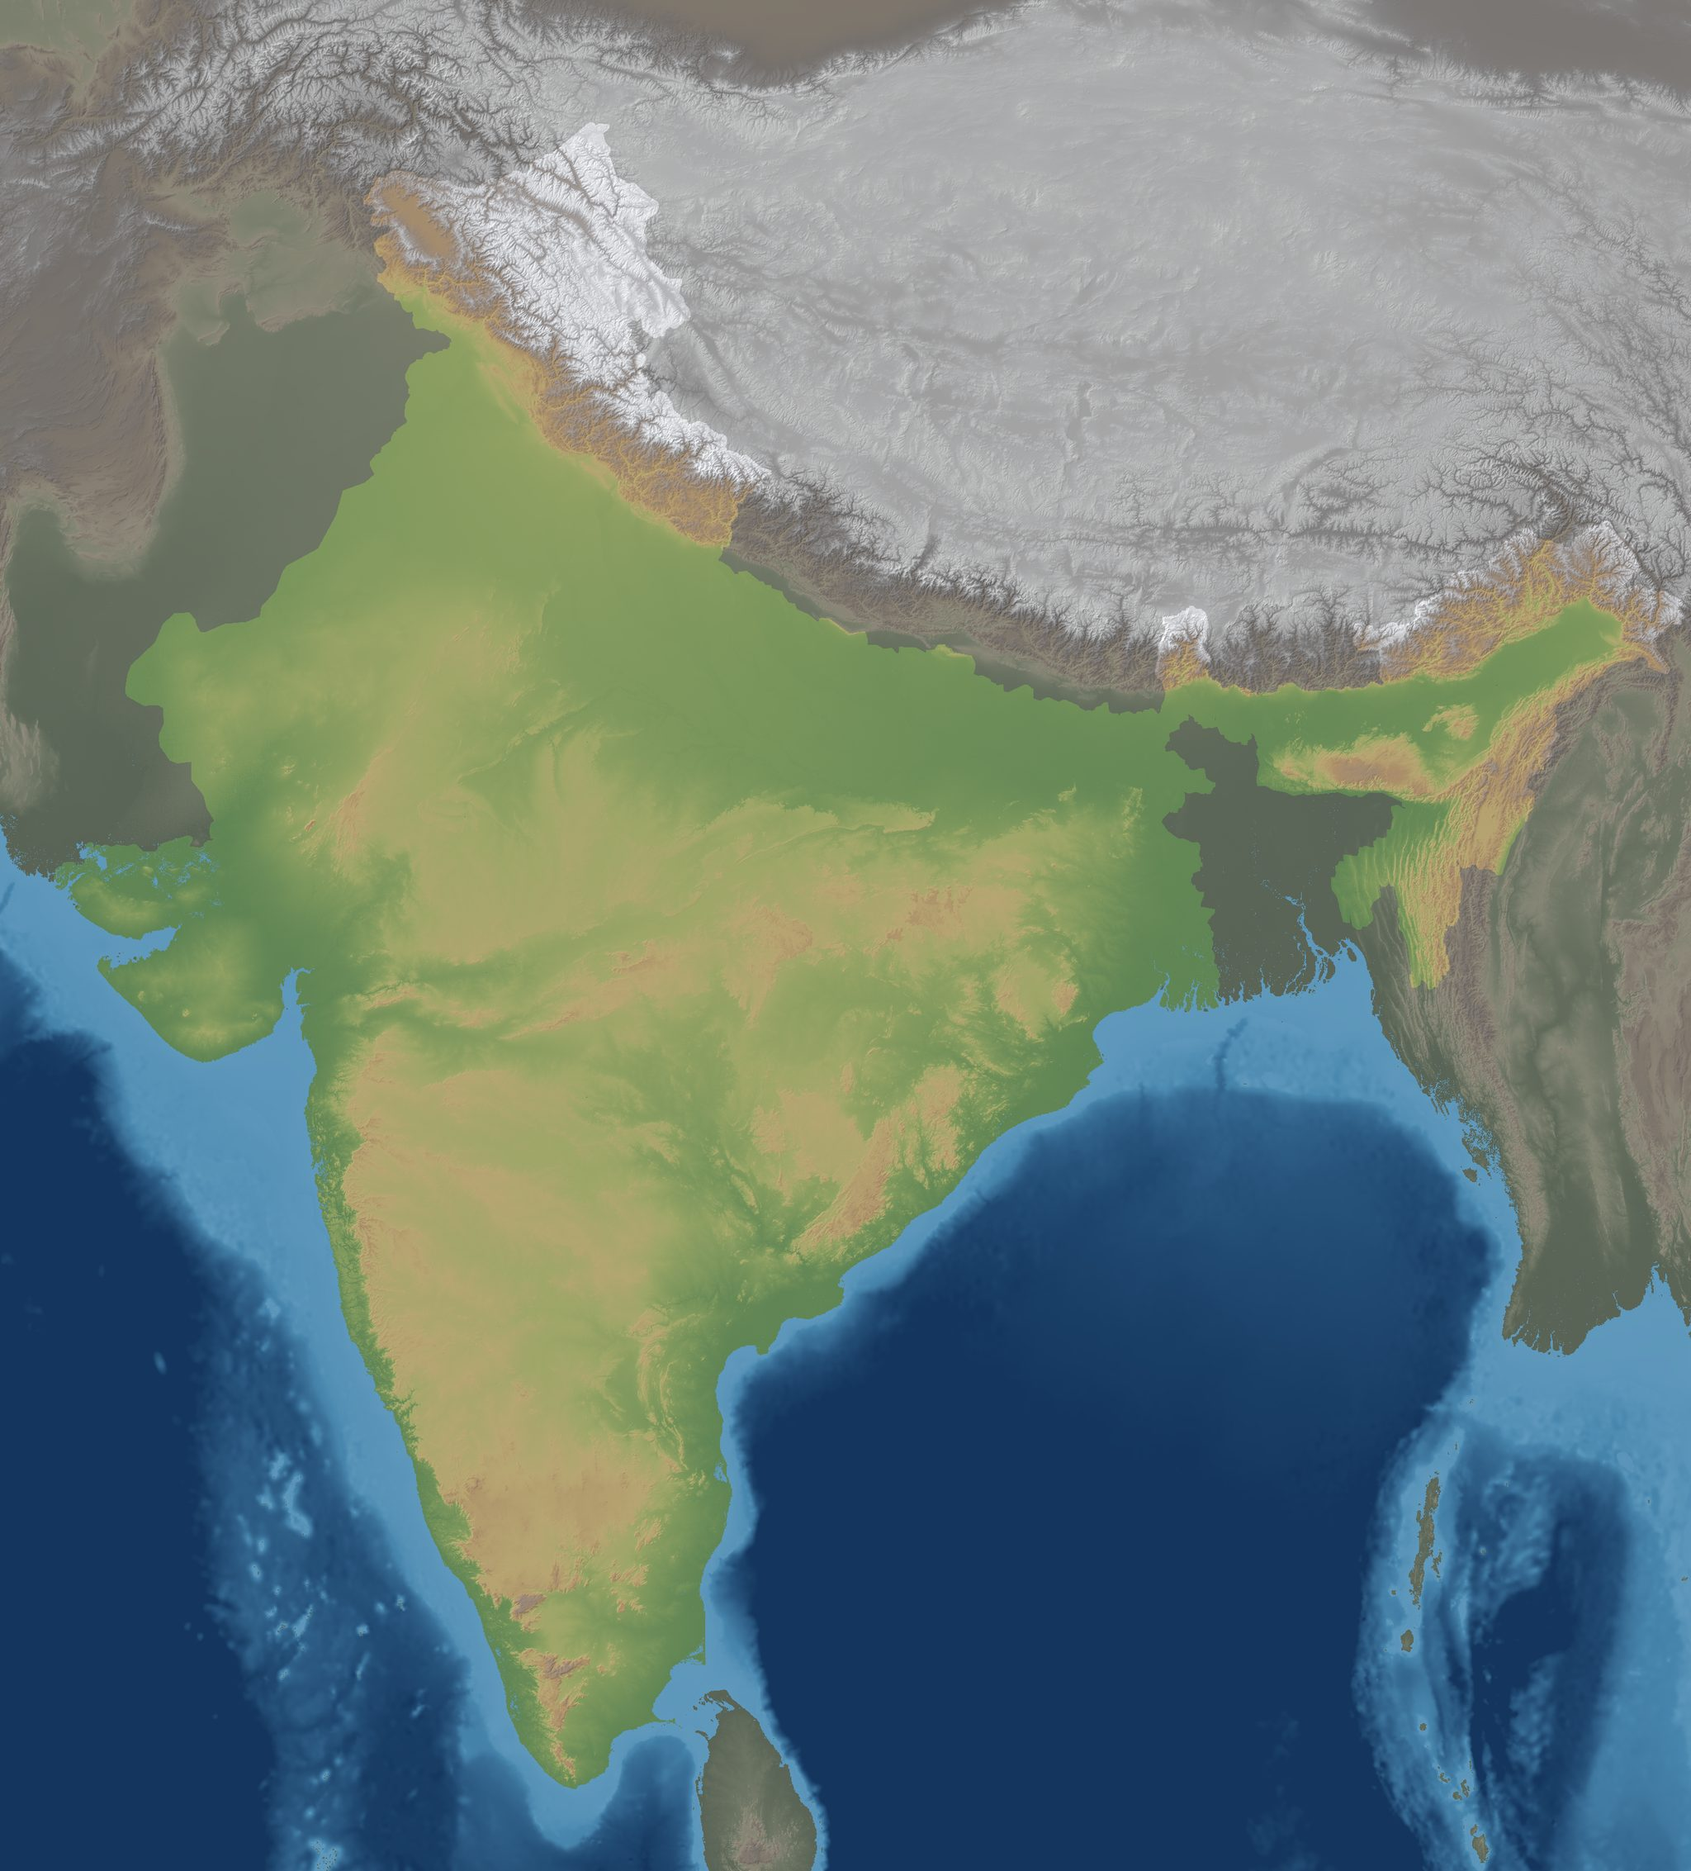
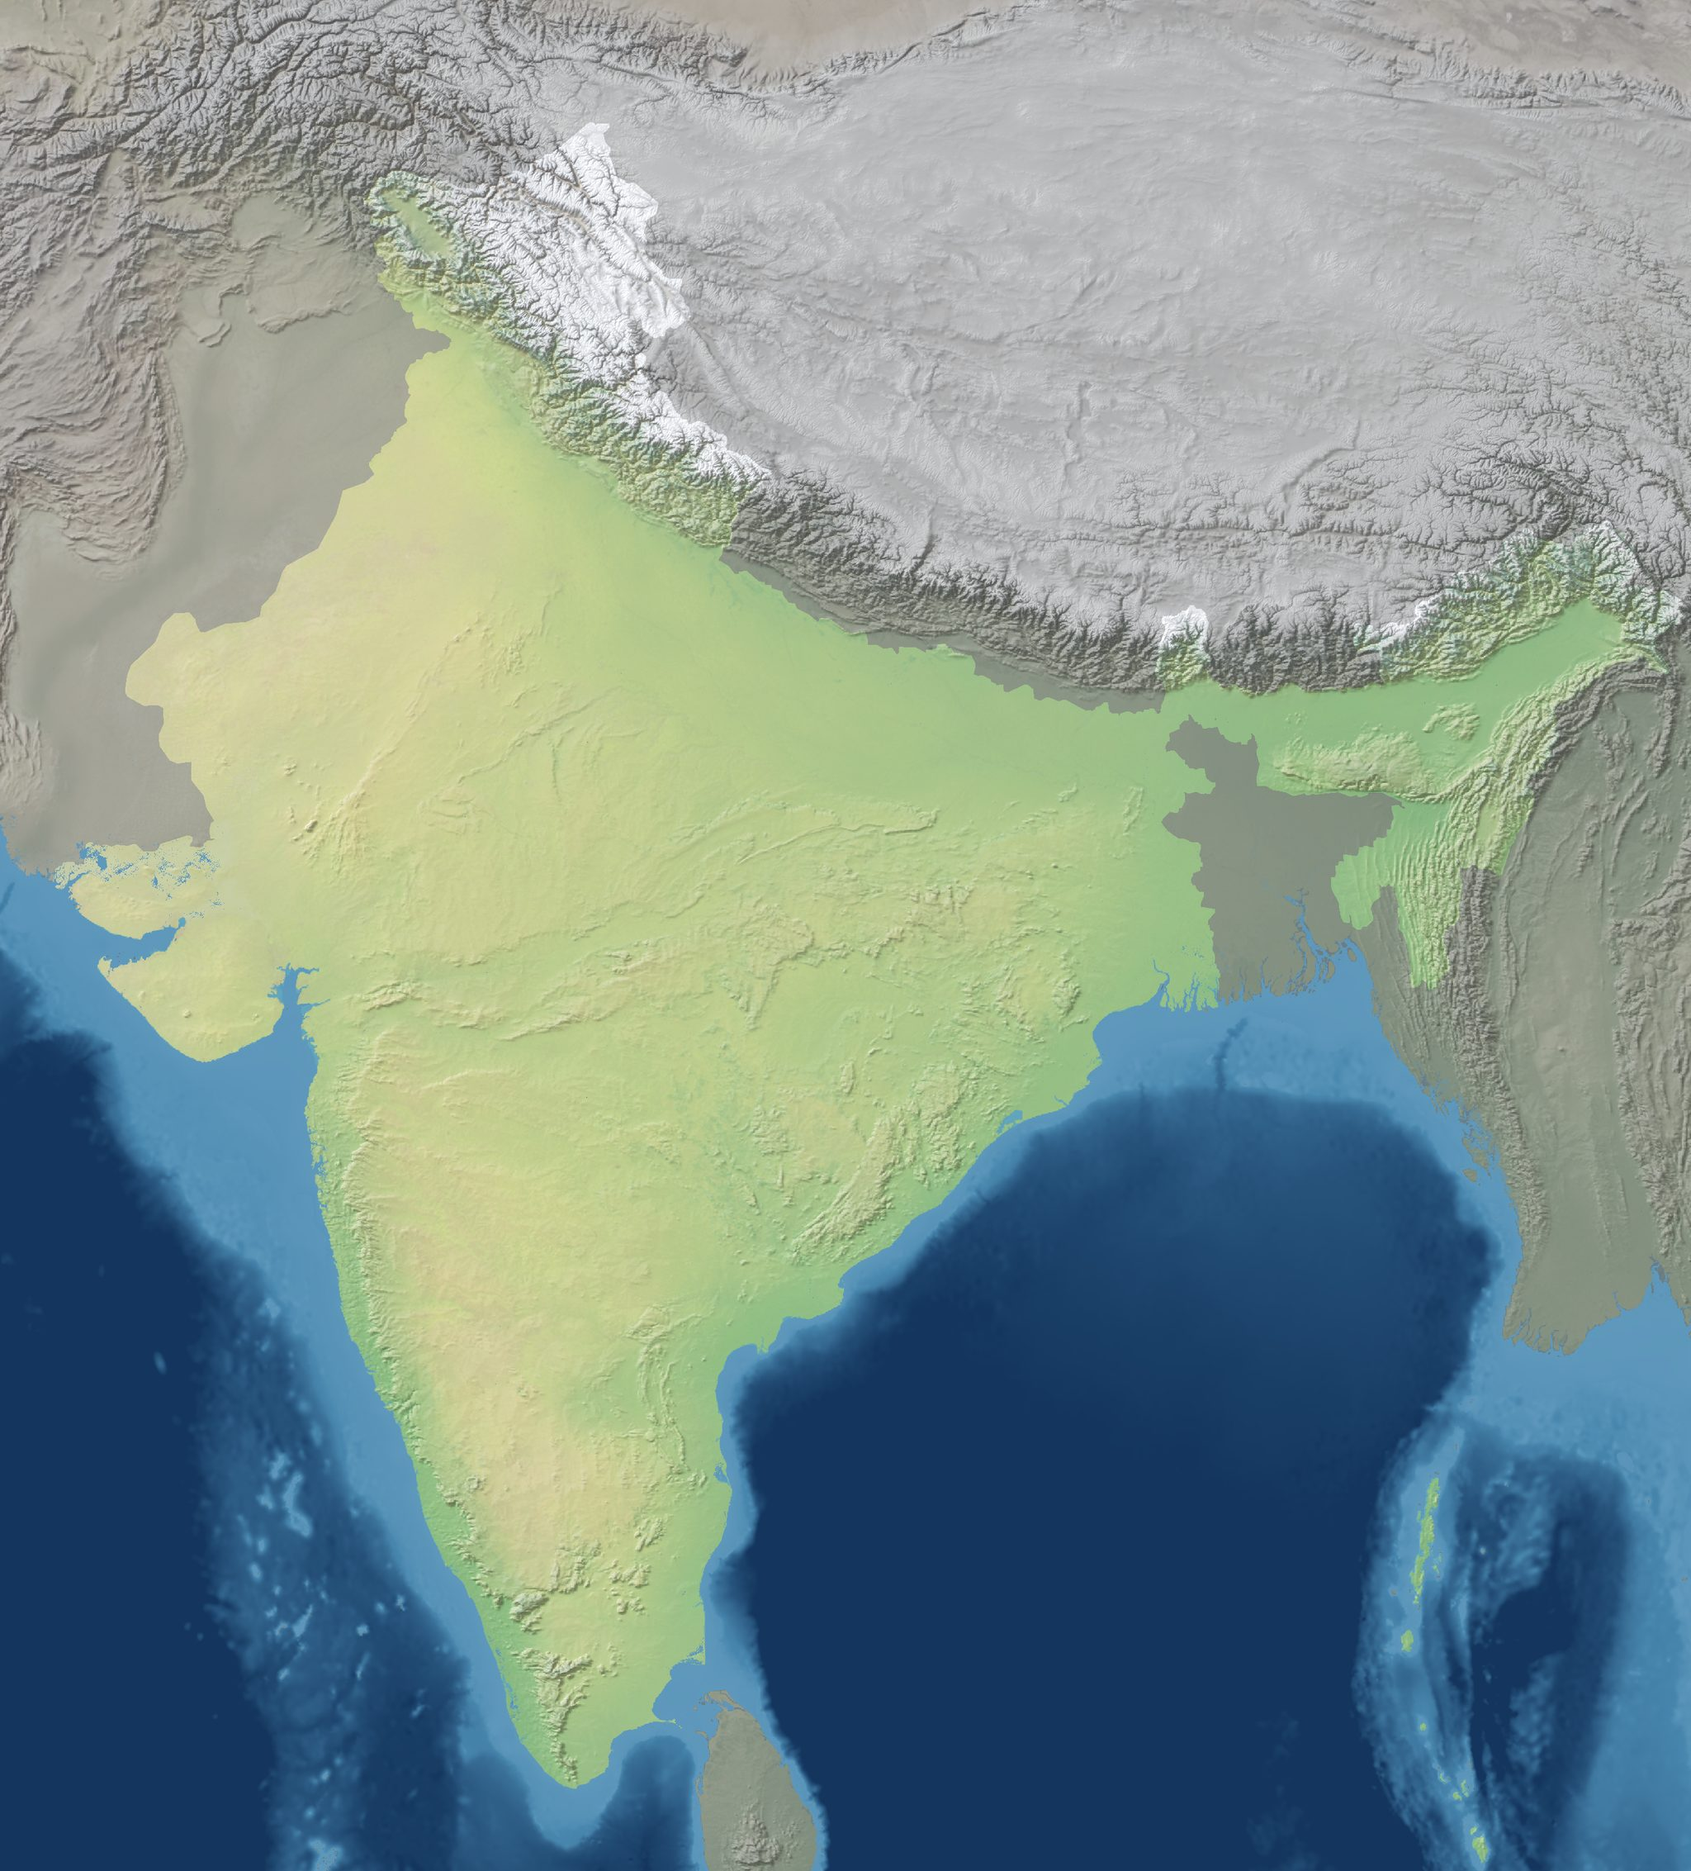
Real land cover on the map: the Thar stops looking like the Gangetic plain
An elevation ramp cannot tell a desert from a floodplain, because both sit at about
200 m and height is all it knows. That was logged as a known limitation, and it
matters more than a cosmetic one would: the course argues that where the rain falls
decides what grows, on a map that painted the Thar the same green as Bengal.

Colour now comes from Natural Earth II, a public-domain cross-blended raster that
already encodes land cover. Our own hillshade, bathymetry and figure/ground
treatment stay on top. Two adjustments earned their place: NE2 is itself a shaded
relief, so a second full-strength hillshade double-shaded it and washed the map out;
and it is drawn pale for print, so a quarter of the old elevation ramp is blended
back for depth, with the ramp keeping the snow line outright because NE2 renders the
Himalaya far too timidly.

The raster is 310 MB and git-ignored. tools/fetch_ne2.py downloads it, and the bake
falls back to the elevation ramp when it is absent, so a fresh clone still produces
a working map without the download.

Also corrected, from the Punjab writer: the sheet said the Golden Temple had been
"gilded since 1604". 1604 is the completion and the installation of the Adi Granth;
the gold is Ranjit Singh two centuries later, which the Punjab reading says, so the
page was contradicting itself.

Claude-Session: https://claude.ai/code/session_013dVEd8LmoEaQxboZmSpwcx

diff --git a/masala-dabba.html b/masala-dabba.html
@@ -516,8 +516,24 @@ const REGIONS = [{"name":"Kashmir & the Himalaya","code":"IN-HIM","c":[77.113,32
 <script src="content/punjab.no.js"></script>
 <script src="content/spice/punjab.js"></script>
 <script src="content/spice/punjab.no.js"></script>
+<script src="content/quiz/punjab.js"></script>
+<script src="content/quiz/punjab.no.js"></script>
+<script src="content/glossary/punjab.js"></script>
+<script src="content/glossary/punjab.no.js"></script>
+<script src="content/recipes/punjab.js"></script>
 <script src="content/rajasthan.js"></script>
+<script src="content/rajasthan.no.js"></script>
+<script src="content/spice/rajasthan.js"></script>
+<script src="content/spice/rajasthan.no.js"></script>
+<script src="content/quiz/rajasthan.js"></script>
+<script src="content/quiz/rajasthan.no.js"></script>
 <script src="content/bengal.js"></script>
+<script src="content/bengal.no.js"></script>
+<script src="content/spice/bengal.js"></script>
+<script src="content/spice/bengal.no.js"></script>
+<script src="content/quiz/bengal.js"></script>
+<script src="content/quiz/bengal.no.js"></script>
+<script src="content/recipes/bengal.js"></script>
 <script src="content/kerala.js"></script>
 <script src="content/kerala.no.js"></script>
 <script src="content/spice/kerala.js"></script>
@@ -586,7 +602,7 @@ const COURSE = {
    dishes:[['Rogan josh',0],['Yakhni',0],['Dum aloo',1],['Haak',1],['Modur pulav',1],['Tabak maaz',0],['Kahwa',1],['Nadru yakhni',1]],
    lessons:['Saffron, ver and the chilli that colours','Rice, the wazwan and the seventh course','Rogan josh, yakhni and the two valley kitchens','Mughals in the mountains: why the valley eats as it does']},
  'IN-PUN':{name:'Punjab & Delhi', capital:'Amritsar', area:'North', color:'#c9a94e', intro:"Five rivers, wheat instead of rice, and a clay oven that changed how the world thinks Indian food tastes. Delhi sits at the eastern end of the same plain and cooks what Partition brought it.",
-   landmark:{name:'The Golden Temple, Amritsar', desc:'Gilded and standing in its own tank since 1604. Its langar feeds about a hundred thousand people a day, free, in the largest continuously running kitchen on earth.',props:[['harmandir',31.62,74.88]]},
+   landmark:{name:'The Golden Temple, Amritsar', desc:'Standing in its own tank since 1604, and gold-plated under Ranjit Singh two centuries later. Its langar feeds about a hundred thousand people a day, free, in the largest continuously running kitchen on earth.',props:[['harmandir',31.62,74.88]]},
    spices:[['Garam masala','blend'],['Cumin (jeera)','whole'],['Coriander seed','whole'],['Ajwain','whole'],['Kasuri methi','fresh'],['Amchur','souring']],
    plate:'Sarson da saag with a makki roti, a lump of white butter melting into it, and a glass of salted lassi.',
    dishes:[['Sarson da saag',1],['Makki di roti',1],['Butter chicken',0],['Tandoori chicken',0],['Dal makhani',1],['Rajma-chawal',1],['Chole bhature',1],['Amritsari fish',0],['Lassi',1]],

diff --git a/content/course.no.js b/content/course.no.js
@@ -9,10 +9,10 @@ window.COURSE_NO = {
    dishes:[['Rogan josh',0],['Yakhni',0],['Dum aloo',1],['Haak',1],['Modur pulav',1],['Tabak maaz',0],['Kahwa',1],['Nadru yakhni',1]],
    lessons:['Safran, ver og chilien som farger','Ris, wazwan og den syvende retten','Rogan josh, yakhni og dalens to kjøkken','Mughaler i fjellet: hvorfor dalen spiser som den gjør']},
  'IN-PUN':{name:'Punjab og Delhi', capital:'Amritsar', intro:"Fem elver, hvete i stedet for ris, og en leirovn som forandret hvordan verden tror indisk mat smaker. Delhi ligger i den østre enden av den samme sletta og lager den maten delingen i 1947 førte dit.",
-   landmark:{name:'Det gylne tempel, Amritsar', desc:'Tempelet har stått forgylt i sitt eget basseng siden 1604. Langar-kjøkkenet der metter omkring hundre tusen mennesker om dagen, gratis, og det er det største kjøkkenet i verden som går uten stans.'},
+   landmark:{name:'Det gylne tempel, Amritsar', desc:'Tempelet har stått i sitt eget basseng siden 1604, og Ranjit Singh lot det kle i gull to hundre år senere. Langar-kjøkkenet der metter omkring hundre tusen mennesker om dagen, gratis, og det er det største kjøkkenet i verden som går uten stans.'},
    spices:[['Garam masala'],['Spisskummen (jeera)'],['Korianderfrø'],['Ajwain'],['Kasuri methi (tørket bukkehornkløver)'],['Amchur (tørket mango)']],
    plate:'Sarson da saag med en makki-roti, en klump hvitt smør som smelter ned i den, og et glass saltet lassi.',
-   dishes:[['Sarson da saag',1],['Makki di roti',1],['Butter chicken',0],['Tandoori-kylling',0],['Dal makhani',1],['Rajma-chawal',1],['Chole bhature',1],['Amritsari-fisk',0],['Lassi',1]],
+   dishes:[['Sarson da saag',1],['Makki di roti',1],['Butter chicken',0],['Tandoorikylling',0],['Dal makhani',1],['Rajma-chawal',1],['Chole bhature',1],['Amritsari-fisk',0],['Lassi',1]],
    lessons:['Garam masala og tandooren','Hvete, meieri og den punjabiske tallerkenen','Saag, dal makhani og tandooribordet','1947: flyktningkjøkkenene som fant opp butter chicken']},
  'IN-RAJ':{name:'Rajasthan', capital:'Jaipur', intro:"Et kjøkken bygd der vannet var mangelvare og ghee ikke var det. Kjøtt kokes i yoghurt og chili, grønnsakene er tørkede bønner og bær som sankes i ørkenkrattet, og brødet er hirse.",
    landmark:{name:'Mehrangarh, Jodhpur', desc:'En festning på en klippe 120 meter over den blå byen, påbegynt i 1459 og aldri inntatt. Kjøkkenene der metter en garnison som ikke kunne regne med regn.'},

diff --git a/tools/bake_terrain.py b/tools/bake_terrain.py
@@ -12,7 +12,15 @@ India needs a different tint ramp from Italy's. The interesting elevations are n
 but 0-8000, and most of the country's food-growing land sits under 700 m, so the ramp spends
 its contrast low down and compresses everything above the Ghats.
 
-Usage: python tools/bake_terrain.py
+Colour comes from Natural Earth II if docs/NE2_HR_LC_SR_W/ is present, and from the elevation
+ramp below if it is not. That matters more here than it would anywhere else: an elevation-only
+tint paints the Thar desert and the wet Gangetic plain the same green, because both sit at about
+200 m, and the whole argument of this course is that where the rain falls decides what grows.
+Natural Earth already encodes land cover, so the desert reads as desert. The hillshade, the
+bathymetry and the desaturation of everything outside India stay ours either way.
+
+  python tools/fetch_ne2.py       # downloads and unpacks the raster (310 MB, git-ignored)
+  python tools/bake_terrain.py
 """
 import json, math, os, sys
 
@@ -86,6 +94,30 @@ def hs(az, alt):
 
 
 shade = 0.55 * hs(315, 40) + 0.25 * hs(270, 35) + 0.2 * hs(0, 50)
+
+
+def natural_earth():
+    """Natural Earth II colour for exactly our crop, or None if the raster is not downloaded.
+
+    NE2 is a plate carree image of the whole world, so the sampling is: for each pixel of our
+    Web Mercator crop, work out its longitude and latitude, then read the NE2 pixel there. Done
+    with index arrays rather than a loop, which is the difference between a second and an hour.
+    """
+    import glob
+    hits = glob.glob(os.path.join(ROOT, 'docs', 'NE2_HR_LC_SR_W', '*.tif'))
+    if not hits:
+        return None
+    Image.MAX_IMAGE_PIXELS = None
+    ne = np.asarray(Image.open(hits[0]).convert('RGB'))
+    nh, nw = ne.shape[:2]
+    # our crop, in absolute tile pixels, then back to lon/lat
+    px = np.arange(W) + cx0 + X0 * 256
+    py = np.arange(H) + cy0 + Y0 * 256
+    lon = px / N * 360.0 - 180.0
+    lat = np.degrees(np.arctan(np.sinh(np.pi * (1 - 2 * py / N))))
+    ix = np.clip(((lon + 180.0) / 360.0 * nw).astype(np.int32), 0, nw - 1)
+    iy = np.clip(((90.0 - lat) / 180.0 * nh).astype(np.int32), 0, nh - 1)
+    return ne[iy[:, None], ix[None, :]].astype(np.float32)
 # the ramp spends its contrast under 700 m, where almost all the cooking happens
 stops = [(0, (104, 144, 92)), (120, (132, 162, 100)), (350, (170, 180, 112)), (700, (198, 180, 124)),
          (1200, (186, 156, 114)), (2200, (164, 146, 130)), (3600, (176, 172, 172)),
@@ -98,7 +130,32 @@ for i in range(len(stops) - 1):
     m = ((e >= e0) & (e < e1))[..., None]
     img = np.where(m, np.array(c0) * (1 - t) + np.array(c1) * t, img)
 img = np.where((e >= stops[-1][0])[..., None], np.array(stops[-1][1], dtype=np.float32), img)
-img = img * (0.5 + 0.65 * shade[..., None])
+
+ne = natural_earth()
+if ne is not None:
+    # Natural Earth knows the land cover, which is the thing an elevation ramp cannot know: the
+    # Thar and the Gangetic plain are both about 200 m and look nothing alike. But NE2 is drawn
+    # pale for print and has almost no value structure, so a quarter of the elevation ramp goes
+    # back in to give the map depth, and the ramp keeps the snow line outright, which NE2 renders
+    # far too timidly for a map whose northern third is the Himalaya.
+    snow = np.clip((e - 3800) / 1400.0, 0, 1)[..., None]
+    img = (ne * 0.76 + img * 0.24) * (1 - snow) + img * snow
+    print('colour from Natural Earth II')
+else:
+    print('colour from the elevation ramp (run tools/fetch_ne2.py for land cover)')
+
+# Natural Earth II is already a *shaded* relief, so multiplying it by a second full-strength
+# hillshade double-shades it and washes the whole map out. Ours still earns its place -- it comes
+# from the DEM at this zoom and is sharper than NE2's -- but it has to modulate gently. The
+# elevation ramp carries no shading of its own and wants the full amount.
+if ne is not None:
+    img = img * (0.58 + 0.60 * shade[..., None])
+    # NE2 is deliberately pale for print; lift saturation and contrast a little for a screen
+    grey = (img @ np.array([0.3, 0.59, 0.11]))[..., None]
+    img = np.clip(grey + (img - grey) * 1.22, 0, 255)
+    img = np.clip((img - 128.0) * 1.06 + 128.0, 0, 255)
+else:
+    img = img * (0.5 + 0.65 * shade[..., None])
 # outside India: quieter, so India is the figure and its neighbours the ground
 gray = img @ np.array([0.3, 0.59, 0.11])
 gray = np.repeat(gray[..., None], 3, axis=2)

diff --git a/tools/fetch_ne2.py b/tools/fetch_ne2.py
@@ -1,0 +1,44 @@
+"""Download Natural Earth II, the land-cover raster the relief map takes its colour from.
+
+An elevation-only tint cannot tell the Thar desert from the Gangetic plain, because both sit at
+about 200 m and a hypsometric ramp only knows height. Natural Earth II is a cross-blended
+hypsometric tint that already carries land cover, so the desert reads as desert, the irrigated
+plain reads as green, and the Deccan reads as dry scrub. `bake_terrain.py` uses it for colour and
+keeps its own hillshade, bathymetry and figure/ground treatment on top.
+
+Public domain, no key, no attribution required (though Natural Earth is credited in the README).
+310 MB zipped, git-ignored, needed only when re-baking the terrain.
+
+Output: docs/NE2_HR_LC_SR_W/NE2_HR_LC_SR_W.tif  (21600 x 10800, plate carree, 8-bit RGB)
+
+Usage: python tools/fetch_ne2.py
+"""
+import os, sys, zipfile
+import urllib.request
+
+sys.path.insert(0, os.path.dirname(os.path.abspath(__file__)))
+from course import ROOT
+
+URL = 'https://naturalearth.s3.amazonaws.com/10m_raster/NE2_HR_LC_SR_W.zip'
+DOCS = os.path.join(ROOT, 'docs')
+ZIP = os.path.join(DOCS, 'NE2_HR_LC_SR_W.zip')
+OUT = os.path.join(DOCS, 'NE2_HR_LC_SR_W')
+
+if os.path.isdir(OUT) and any(f.endswith('.tif') for f in os.listdir(OUT)):
+    print('already unpacked:', OUT)
+    sys.exit(0)
+
+if not os.path.exists(ZIP):
+    print('downloading 310 MB from naturalearthdata.com ...')
+    urllib.request.urlretrieve(URL, ZIP)
+print('%.0f MB zipped' % (os.path.getsize(ZIP) / 1e6))
+
+os.makedirs(OUT, exist_ok=True)
+with zipfile.ZipFile(ZIP) as z:
+    for name in z.namelist():
+        if name.lower().endswith('.tif'):
+            with z.open(name) as src, open(os.path.join(OUT, os.path.basename(name)), 'wb') as dst:
+                dst.write(src.read())
+            print('unpacked', os.path.basename(name),
+                  '%.0f MB' % (os.path.getsize(os.path.join(OUT, os.path.basename(name))) / 1e6))
+print('now run: python tools/bake_terrain.py')

diff --git a/PLAN.md b/PLAN.md
@@ -102,9 +102,12 @@ mountains and that monsoon. Baked at zoom 7 rather than Italy's 8, with the vert
 
 ## 5. Known limitations, recorded so they are not rediscovered
 
-- **The relief tint is elevation-only.** The Thar desert and the wet Gangetic plain are both about 200 m and
-  therefore both green. Fixing it needs a rainfall or vegetation layer blended into the bake, which is a
-  half-day and not obviously worth it.
+- ~~The relief tint is elevation-only.~~ **Fixed 2026-09-12.** Colour now comes from Natural Earth II, a
+  public-domain cross-blended raster that already encodes land cover, so the Thar reads as desert and the
+  Gangetic plain as irrigated green where an elevation ramp made both the same colour. A quarter of the old
+  ramp is blended back for depth, because NE2 is drawn pale for print, and the ramp keeps the snow line
+  outright. `python tools/fetch_ne2.py` downloads the raster (310 MB, git-ignored); the bake falls back to
+  the elevation ramp if it is absent, so a fresh clone still works without it.
 - **Goa is very small.** 0.3 square degrees against Rajasthan's 31, and ten times smaller relative to the
   country than Valle d'Aosta was to Italy. It is reachable through its pin and its rail chip, but it is worth
   watching on a phone. Folding it into Maharashtra was rejected: Goan food is too distinct.

diff --git a/README.md b/README.md
@@ -77,7 +77,7 @@ Run `python tools/wire.py` after adding a content file; it regenerates the app's
 ## Credits
 
 Photographs are from Wikimedia Commons under CC0, CC BY or CC BY-SA, credited under every image and in a
-credits panel at the foot of each reading. Elevation data is AWS Terrain Tiles. Region boundaries are GADM
-via `github.com/geohacker/india`.
+credits panel at the foot of each reading. Elevation data is AWS Terrain Tiles. The map's land colour is
+Natural Earth II. Region boundaries are GADM via `github.com/geohacker/india`.
 
 `CLAUDE.md` is the operating manual; `PLAN.md` is the roadmap.
